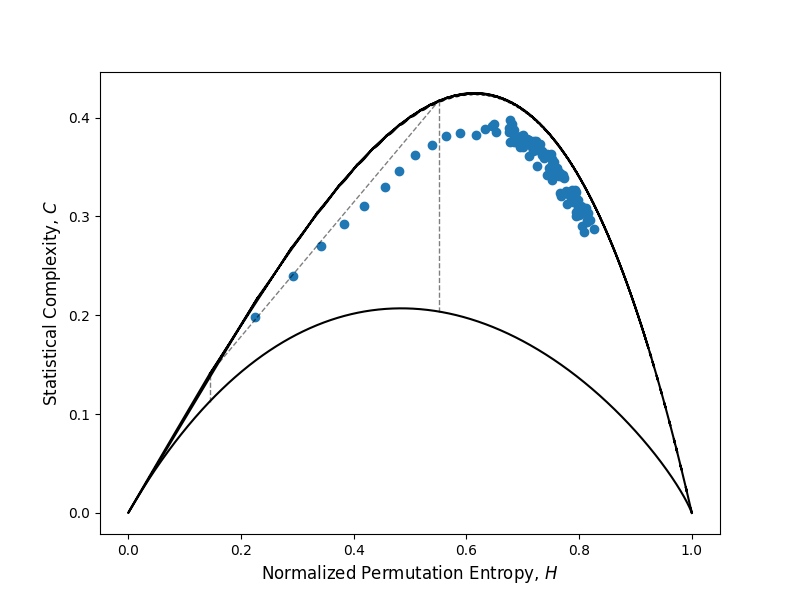
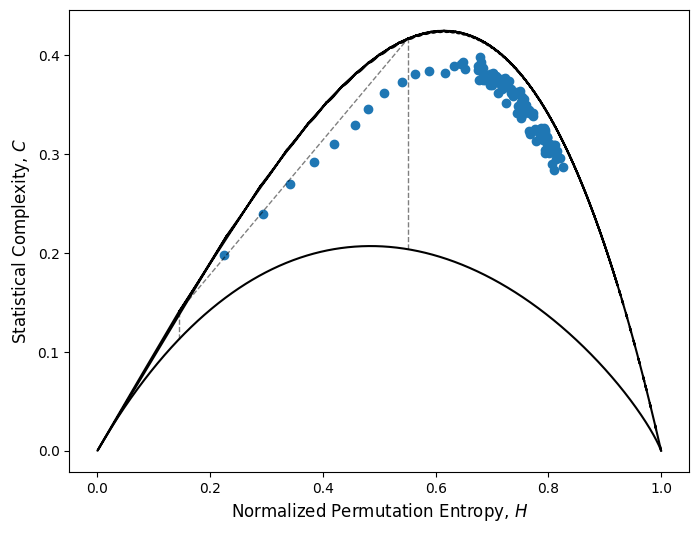
updated getting started page

diff --git a/docs/source/start.rst b/docs/source/start.rst
@@ -7,13 +7,23 @@ The following example will walk you through the basic functions of the
 ``peccary`` package. Additional descriptions and examples for all
 functions and class can be found in the :ref:`User Guide <user-guide>`.
 
+Initializing double pendulum system
+-----------------------------------
+
 First, import ``peccary`` (the core analysis of the package), 
 ``examples`` (which can generate a variety of different
-timeseries), and ``HCplots`` (used for plotting on the :math:`HC`-plane):
+timeseries), and ``HCplots`` (used for plotting on the :math:`HC`-plane),
+as well as some additional packages:
 
+>>> import numpy as np
+>>> import matplotlib.pyplot as plt
 >>> from peccary import peccary
 >>> import peccary.examples as ex
 >>> from peccary import HCplots
+>>> from peccary import utils
+
+Integration and initializing PECCARY
+------------------------------------
 
 To start with PECCARY, you need some sort of timeseries to analyze. 
 Let's set up a double pendulum system where each mass is 1 kg and 
@@ -62,6 +72,9 @@ the x-coordinates for the the second particle (or mass) in the system:
 
 >>> pecc = peccary(pend, attr='x', ptcl=1)
 
+Calculating and plotting :math:`H` and :math:`C`
+------------------------------------------------
+
 To run PECCARY for a range of sampling intervals, we use the ``calcHCcurves`` method.
 By default, it will run the analysis for sampling intervals from :math:`\ell = 1` to 
 :math:`\ell = 100` at increments of 1. This can be changed via the ``min_sampInt``,
@@ -99,6 +112,37 @@ This gives us the plot:
 
 .. raw:: html
 
-   <img src="_static/pendEx-HC.png" width="100%"
+   <img src="_static/pendEx-HCcurves.png" width="100%"
     style="margin-bottom: 32px;"/>
-[continue writeup]
+
+While this is useful when chaotic behavior is expected, to use PECCARY on a timeseries where the
+behavior is not know, it is better to use the idealized sampling scheme discussed in Section 3.2
+of Hyman, Daniel, & Schaffner (in prep). These recommendations are to use 
+:math:`0.3 \lesssim t_{pat}/t_{nat} \lesssim 0.5` and :math:`t_{dur}/t_{nat} \geq 1.5`. Since the
+double pendulum is a chaotic system, we need to approximate its natural timescale by using the
+``utils.tNatApprox`` function.
+
+>>> tNat = utils.tNatApprox(pend.t, pend.x[1])
+
+We can convert our desired time resolution ratio of :math:`t_{pat}/t_{nat} = 0.4` to a sampling 
+interval using the natural timescale we calculated and the function ``utils.tpat2ell``:
+
+>>> ell = utils.tpat2ell(0.4*tNat, dt=pend.dt)
+
+We can now calculate the ideal :math:`H` and :math:`C` calues for  using:
+
+>>> idealH, idealC = pecc.calcHC(sampInt=ell)
+>>> HCplots.HCplane(idealH, idealC)
+>>> plt.show()
+
+This gives us the plot of the :math:`HC`-plane, which indicates that our timeseries
+is indeed complex:
+
+.. raw:: html
+
+   <img src="_static/pendEx-HCideal.png" width="100%"
+    style="margin-bottom: 32px;"/>
+
+In-depth discussion of the choices and interpretations for :math:`H` and :math:`C`
+can be found in Hyman, Daniel, & Schaffner (in prep). Additional documentation and
+examples for each function can be found in the :ref:`User Guide <user-guide>`.
